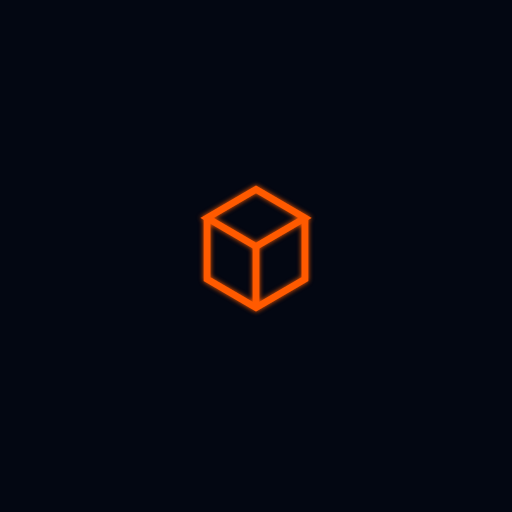
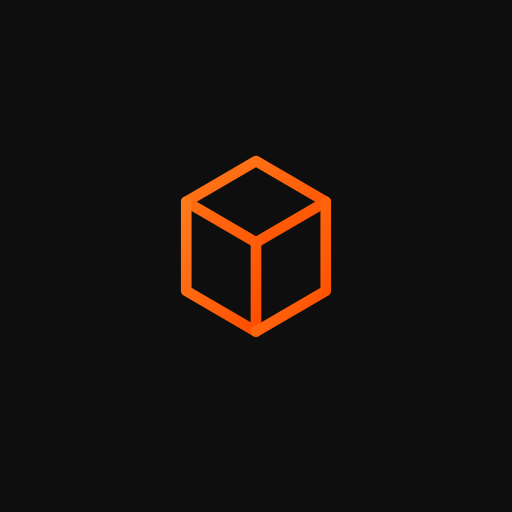
Fix auth persistence, block home return after login, and update app assets

Changed region(s): [[0.3438, 0.2812, 0.6562, 0.6562]]

diff --git a/context/SuperAdminAuthContext.tsx b/context/SuperAdminAuthContext.tsx
@@ -20,10 +20,11 @@ import { onAuthStateChanged, signOut as firebaseSignOut, type User } from 'fireb
 import { adminAuth, ADMIN_SESSION_KEY } from '@/lib/firebase';
 import { securityLog } from '@/lib/logger';
 
-const SESSION_INACTIVITY_LIMIT_MS = 7 * 24 * 60 * 60 * 1000;
-const SUPER_ADMIN_LAST_ACTIVITY_KEY = 'nexresto-super-admin-last-activity-at';
+const SESSION_WINDOW_MS = 7 * 24 * 60 * 60 * 1000;
+const SUPER_ADMIN_SESSION_EXPIRES_AT_KEY = 'nexresto-super-admin-session-expires-at';
+const SUPER_ADMIN_SESSION_UID_KEY = 'nexresto-super-admin-session-uid';
 
-function readLastActivityMs(storageKey: string): number | null {
+function readStoredMs(storageKey: string): number | null {
     if (typeof window === 'undefined') return null;
     const raw = localStorage.getItem(storageKey);
     if (!raw) return null;
@@ -31,15 +32,34 @@ function readLastActivityMs(storageKey: string): number | null {
     return Number.isFinite(ms) ? ms : null;
 }
 
-function writeLastActivityNow(storageKey: string): void {
+function writeSuperAdminSessionWindow(userId: string): void {
     if (typeof window === 'undefined') return;
-    localStorage.setItem(storageKey, String(Date.now()));
+    localStorage.setItem(SUPER_ADMIN_SESSION_UID_KEY, userId);
+    localStorage.setItem(SUPER_ADMIN_SESSION_EXPIRES_AT_KEY, String(Date.now() + SESSION_WINDOW_MS));
 }
 
-function isInactiveBeyondLimit(storageKey: string): boolean {
-    const lastMs = readLastActivityMs(storageKey);
-    if (!lastMs) return false;
-    return Date.now() - lastMs > SESSION_INACTIVITY_LIMIT_MS;
+function clearSuperAdminSessionWindow(): void {
+    if (typeof window === 'undefined') return;
+    localStorage.removeItem(SUPER_ADMIN_SESSION_UID_KEY);
+    localStorage.removeItem(SUPER_ADMIN_SESSION_EXPIRES_AT_KEY);
+}
+
+function isSuperAdminSessionExpired(userId: string): boolean {
+    if (typeof window === 'undefined') return false;
+
+    const storedUid = localStorage.getItem(SUPER_ADMIN_SESSION_UID_KEY);
+    if (!storedUid || storedUid !== userId) {
+        writeSuperAdminSessionWindow(userId);
+        return false;
+    }
+
+    const expiresAt = readStoredMs(SUPER_ADMIN_SESSION_EXPIRES_AT_KEY);
+    if (!expiresAt) {
+        writeSuperAdminSessionWindow(userId);
+        return false;
+    }
+
+    return Date.now() > expiresAt;
 }
 
 function isRecentSignIn(user: User, windowMs: number = 2 * 60 * 1000): boolean {
@@ -85,33 +105,6 @@ export function SuperAdminAuthProvider({ children }: { children: ReactNode }) {
     const hasRoleRef = useRef(false);
 
     useEffect(() => {
-        if (typeof window === 'undefined') return;
-
-        let rafId: number | null = null;
-        const markActivity = () => {
-            if (rafId !== null) return;
-            rafId = window.requestAnimationFrame(() => {
-                writeLastActivityNow(SUPER_ADMIN_LAST_ACTIVITY_KEY);
-                rafId = null;
-            });
-        };
-
-        const events: Array<keyof WindowEventMap> = ['pointerdown', 'keydown', 'scroll', 'touchstart'];
-        events.forEach((eventName) => {
-            window.addEventListener(eventName, markActivity, { passive: true });
-        });
-
-        markActivity();
-
-        return () => {
-            events.forEach((eventName) => {
-                window.removeEventListener(eventName, markActivity);
-            });
-            if (rafId !== null) window.cancelAnimationFrame(rafId);
-        };
-    }, []);
-
-    useEffect(() => {
         let isActive = true;
 
         // ── Pick up token left by login page ──────────────────────────────────
@@ -134,6 +127,7 @@ export function SuperAdminAuthProvider({ children }: { children: ReactNode }) {
             console.log(`[SuperAdminAuth] Firebase auth state changed: ${user ? 'signed in' : 'signed out'}`);
 
             if (!user) {
+                clearSuperAdminSessionWindow();
                 if (isActive) {
                     hasRoleRef.current = false;
                     setState({
@@ -146,7 +140,12 @@ export function SuperAdminAuthProvider({ children }: { children: ReactNode }) {
                 return;
             }
 
-            if (!isRecentSignIn(user) && isInactiveBeyondLimit(SUPER_ADMIN_LAST_ACTIVITY_KEY)) {
+            if (isRecentSignIn(user)) {
+                writeSuperAdminSessionWindow(user.uid);
+            }
+
+            if (isSuperAdminSessionExpired(user.uid)) {
+                clearSuperAdminSessionWindow();
                 await firebaseSignOut(adminAuth);
                 if (isActive) {
                     hasRoleRef.current = false;
@@ -161,8 +160,6 @@ export function SuperAdminAuthProvider({ children }: { children: ReactNode }) {
                 }
                 return;
             }
-
-            writeLastActivityNow(SUPER_ADMIN_LAST_ACTIVITY_KEY);
 
             const idToken = await user.getIdToken();
 
@@ -255,6 +252,7 @@ export function SuperAdminAuthProvider({ children }: { children: ReactNode }) {
      * Does NOT affect the tenant session (different Firebase App instance).
      */
     const signOut = async () => {
+        clearSuperAdminSessionWindow();
         setState({
             session: null, user: null,
             loading: false, roleLoading: false,

diff --git a/context/AuthContext.tsx b/context/AuthContext.tsx
@@ -19,10 +19,11 @@ import { signOut as authSignOut } from '@/lib/firebase-auth';
 import { securityLog } from '@/lib/logger';
 import { doc, getDoc, onSnapshot } from 'firebase/firestore';
 
-const SESSION_INACTIVITY_LIMIT_MS = 7 * 24 * 60 * 60 * 1000;
-const TENANT_LAST_ACTIVITY_KEY = 'nexresto-tenant-last-activity-at';
+const SESSION_WINDOW_MS = 7 * 24 * 60 * 60 * 1000;
+const TENANT_SESSION_EXPIRES_AT_KEY = 'nexresto-tenant-session-expires-at';
+const TENANT_SESSION_UID_KEY = 'nexresto-tenant-session-uid';
 
-function readLastActivityMs(storageKey: string): number | null {
+function readStoredMs(storageKey: string): number | null {
     if (typeof window === 'undefined') return null;
     const raw = localStorage.getItem(storageKey);
     if (!raw) return null;
@@ -30,15 +31,34 @@ function readLastActivityMs(storageKey: string): number | null {
     return Number.isFinite(ms) ? ms : null;
 }
 
-function writeLastActivityNow(storageKey: string): void {
+function writeTenantSessionWindow(userId: string): void {
     if (typeof window === 'undefined') return;
-    localStorage.setItem(storageKey, String(Date.now()));
+    localStorage.setItem(TENANT_SESSION_UID_KEY, userId);
+    localStorage.setItem(TENANT_SESSION_EXPIRES_AT_KEY, String(Date.now() + SESSION_WINDOW_MS));
 }
 
-function isInactiveBeyondLimit(storageKey: string): boolean {
-    const lastMs = readLastActivityMs(storageKey);
-    if (!lastMs) return false;
-    return Date.now() - lastMs > SESSION_INACTIVITY_LIMIT_MS;
+function clearTenantSessionWindow(): void {
+    if (typeof window === 'undefined') return;
+    localStorage.removeItem(TENANT_SESSION_UID_KEY);
+    localStorage.removeItem(TENANT_SESSION_EXPIRES_AT_KEY);
+}
+
+function isTenantSessionExpired(userId: string): boolean {
+    if (typeof window === 'undefined') return false;
+
+    const storedUid = localStorage.getItem(TENANT_SESSION_UID_KEY);
+    if (!storedUid || storedUid !== userId) {
+        writeTenantSessionWindow(userId);
+        return false;
+    }
+
+    const expiresAt = readStoredMs(TENANT_SESSION_EXPIRES_AT_KEY);
+    if (!expiresAt) {
+        writeTenantSessionWindow(userId);
+        return false;
+    }
+
+    return Date.now() > expiresAt;
 }
 
 function isRecentSignIn(user: User, windowMs: number = 2 * 60 * 1000): boolean {
@@ -294,33 +314,6 @@ export function AuthProvider({ children }: { children: ReactNode }) {
     const resolvedUidRef = useRef<string | null>(null);
     const tenantSyncUnsubRef = useRef<(() => void) | null>(null);
 
-    useEffect(() => {
-        if (typeof window === 'undefined') return;
-
-        let rafId: number | null = null;
-        const markActivity = () => {
-            if (rafId !== null) return;
-            rafId = window.requestAnimationFrame(() => {
-                writeLastActivityNow(TENANT_LAST_ACTIVITY_KEY);
-                rafId = null;
-            });
-        };
-
-        const events: Array<keyof WindowEventMap> = ['pointerdown', 'keydown', 'scroll', 'touchstart'];
-        events.forEach((eventName) => {
-            window.addEventListener(eventName, markActivity, { passive: true });
-        });
-
-        markActivity();
-
-        return () => {
-            events.forEach((eventName) => {
-                window.removeEventListener(eventName, markActivity);
-            });
-            if (rafId !== null) window.cancelAnimationFrame(rafId);
-        };
-    }, []);
-
     // Refresh tenant info on demand (e.g. after signup completes)
     const refreshTenant = async () => {
         const user = state.user;
@@ -366,6 +359,7 @@ export function AuthProvider({ children }: { children: ReactNode }) {
                 console.log(`[AuthContext] Firebase auth state changed: ${user ? 'signed in' : 'signed out'}`);
 
                 if (!user) {
+                    clearTenantSessionWindow();
                     if (isActive) {
                         hasTenantRef.current = false;
                         resolvedUidRef.current = null;
@@ -391,7 +385,12 @@ export function AuthProvider({ children }: { children: ReactNode }) {
                     return;
                 }
 
-                if (!isRecentSignIn(user) && isInactiveBeyondLimit(TENANT_LAST_ACTIVITY_KEY)) {
+                if (isRecentSignIn(user)) {
+                    writeTenantSessionWindow(user.uid);
+                }
+
+                if (isTenantSessionExpired(user.uid)) {
+                    clearTenantSessionWindow();
                     await authSignOut();
                     if (isActive) {
                         setState({
@@ -414,8 +413,6 @@ export function AuthProvider({ children }: { children: ReactNode }) {
                     }
                     return;
                 }
-
-                writeLastActivityNow(TENANT_LAST_ACTIVITY_KEY);
 
                 let idToken = '';
                 try {
@@ -523,6 +520,7 @@ export function AuthProvider({ children }: { children: ReactNode }) {
     }, []);
 
     const signOut = async () => {
+        clearTenantSessionWindow();
         hasTenantRef.current = false;
         resolvedUidRef.current = null;
         setState({

diff --git a/app/page.tsx b/app/page.tsx
@@ -2,6 +2,9 @@
 
 import { type FormEvent, useEffect, useRef, useState } from "react";
 import Link from "next/link";
+import { useRouter } from "next/navigation";
+import { useAuth } from "@/context/AuthContext";
+import { useSuperAdminAuth } from "@/context/SuperAdminAuthContext";
 
 type DemoFormData = {
   contactName: string;
@@ -24,11 +27,50 @@ const INITIAL_FORM: DemoFormData = {
 const BRANDS = ["L'ATELIER", "SAVOY", "NOBU", "MIRA", "ZUMA", "STK"];
 
 export default function RootPage() {
+  const router = useRouter();
+  const { session, loading, tenantLoading, userRole, tenantId, mustChangePassword } = useAuth();
+  const { session: adminSession, loading: adminLoading, userRole: adminUserRole } = useSuperAdminAuth();
   const demoSectionRef = useRef<HTMLElement | null>(null);
 
   const [formData, setFormData] = useState<DemoFormData>(INITIAL_FORM);
   const [submitting, setSubmitting] = useState(false);
   const [message, setMessage] = useState<{ type: "success" | "error"; text: string } | null>(null);
+
+  useEffect(() => {
+    if (loading || tenantLoading || adminLoading) return;
+
+    if (mustChangePassword) {
+      router.replace("/change-password");
+      return;
+    }
+
+    if (adminSession && adminUserRole === "super_admin") {
+      router.replace("/super-admin");
+      return;
+    }
+
+    if (!session) return;
+
+    if (userRole === "super_admin") {
+      router.replace("/super-admin");
+      return;
+    }
+
+    if (tenantId) {
+      router.replace(`/${tenantId}/dashboard/orders`);
+    }
+  }, [
+    session,
+    loading,
+    tenantLoading,
+    userRole,
+    tenantId,
+    mustChangePassword,
+    adminSession,
+    adminLoading,
+    adminUserRole,
+    router,
+  ]);
 
   useEffect(() => {
     if (typeof window === "undefined") return;

diff --git a/components/customer/MenuCatalogLayout.tsx b/components/customer/MenuCatalogLayout.tsx
@@ -88,9 +88,19 @@ export function GourmetCatalogLayout({
     return (
         <div className="min-h-screen bg-[#0e0e0e] text-[#e7e5e4]" style={{ fontFamily: bodyFont }}>
             <header className="fixed top-0 z-40 flex h-20 w-full items-center justify-between border-b border-[#484848]/20 bg-[#0E0E0E] px-6 text-[#B5CCC1]">
-                <h1 className="text-2xl tracking-widest" style={{ fontFamily: headerFont }}>
-                    {restaurantName}
-                </h1>
+                <div className="flex items-center gap-4">
+                    <Image
+                        src="/nexresto-mark.svg"
+                        alt="NexResto logo"
+                        width={56}
+                        height={56}
+                        priority
+                        className="h-14 w-14"
+                    />
+                    <h1 className="text-2xl tracking-widest" style={{ fontFamily: headerFont }}>
+                        {restaurantName}
+                    </h1>
+                </div>
                 <button
                     type="button"
                     onClick={onSearch}

diff --git a/lib/seo/url.ts b/lib/seo/url.ts
@@ -9,6 +9,10 @@ function normalizeOrigin(raw: string): string | null {
     try {
         const parsed = new URL(withProtocol);
         if (!/^https?:$/i.test(parsed.protocol)) return null;
+        if (!isLocalHost(parsed.hostname) && parsed.protocol === 'http:') {
+            parsed.protocol = 'https:';
+        }
+        parsed.pathname = '/';
         parsed.hash = '';
         parsed.search = '';
         return parsed.toString().replace(/\/$/, '');
